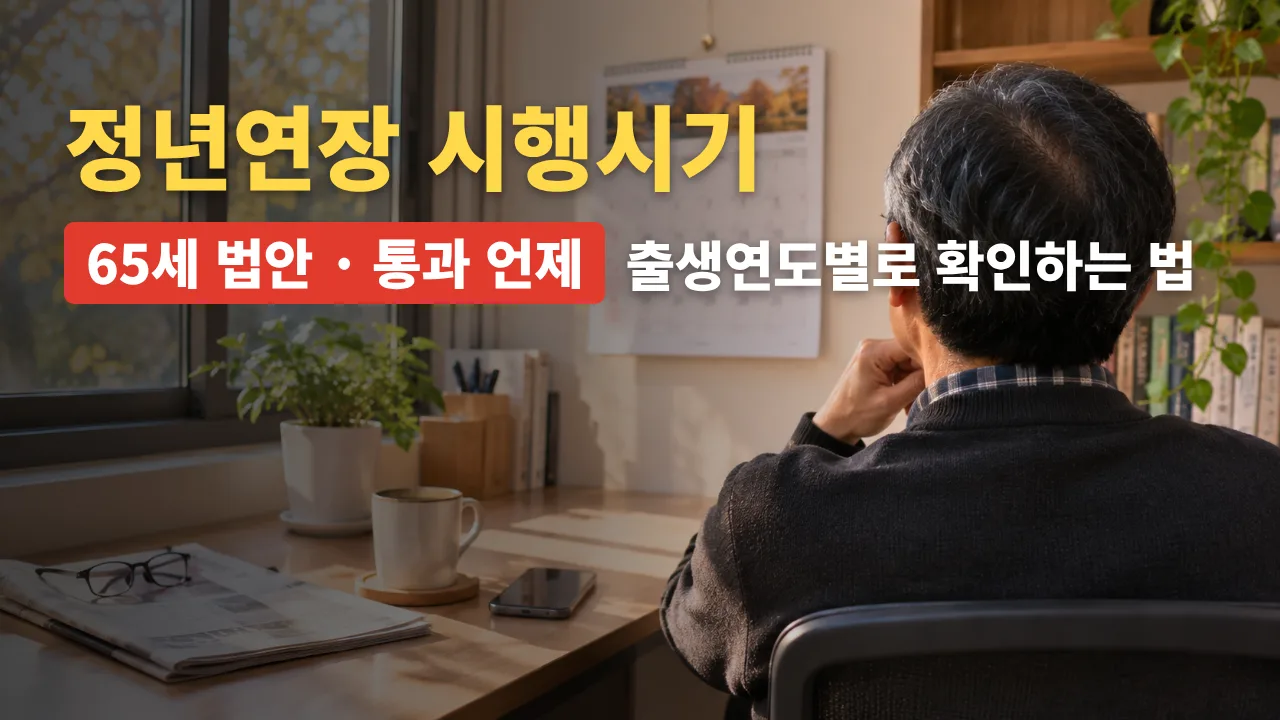
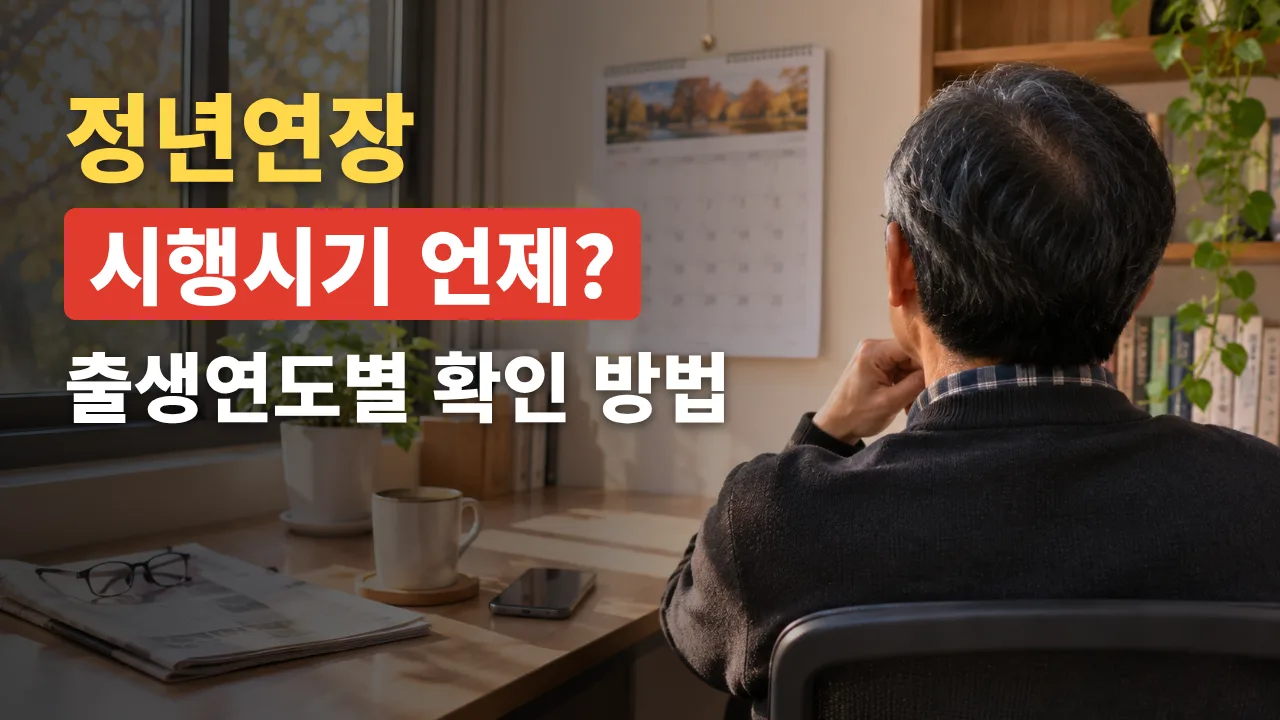
썸네일 새 배치(세 줄 세로) 적용: 정년연장, 썸네일 물음표 허용
Claude-Session: https://claude.ai/code/session_01UeEtVFVWMgirAoUtyHaaoz

Changed region(s): [[0.0312, 0.1222, 0.9375, 0.4583], [0.0312, 0.4889, 0.5938, 0.6111]]

diff --git a/src/content/articles/work/retirement-age-extension.md b/src/content/articles/work/retirement-age-extension.md
@@ -1,7 +1,7 @@
 ---
-title: 정년연장 시행시기와 65세 법안 통과 언제 출생연도별로 확인하는 법
+title: 정년연장 시행시기 언제 65세 법안 통과와 출생연도별 확인 방법
 cardTitle: 정년연장 시행시기
-seoTitle: 정년연장 시행시기와 65세 법안 통과 언제
+seoTitle: 정년연장 시행시기 언제 65세 법안과 출생연도별 확인
 description: 정년연장 65세 법안 통과 시기와 정부안, 유력안 기준 출생연도별 정년과 국민연금 공백, 공무원 정년연장까지 정리했어요.
 subcategory: wages
 contentType: guide
